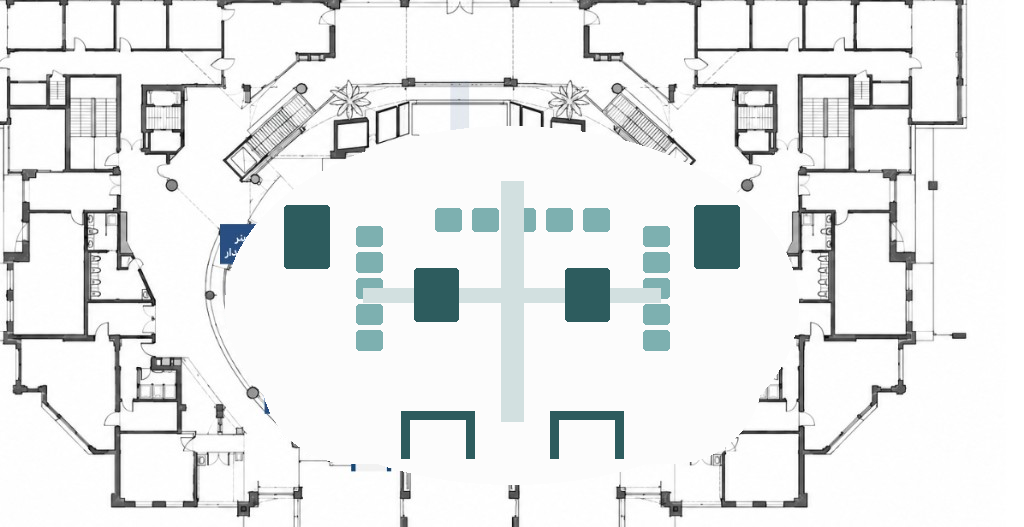
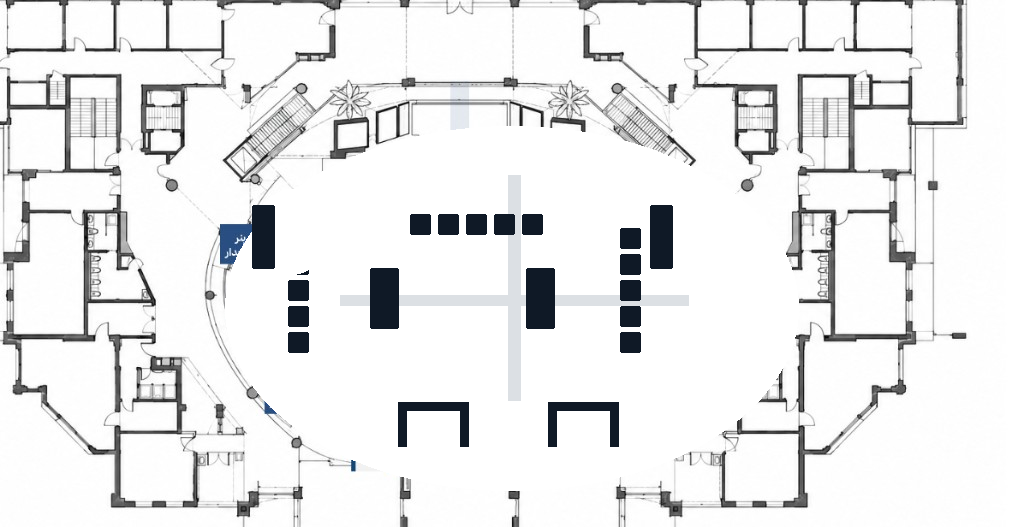
Fix the cover to Terminal navy and rebuild the site plan from the approved layout.

diff --git a/e-week.html b/e-week.html
@@ -7,12 +7,12 @@
   <link rel="stylesheet" href="https://cdn.jsdelivr.net/npm/@dawod/thmanyah-font-web/index.css">
   <style>
     :root {
-      --teal: #2f5c5e;
-      --mint: #c5ddd4;
-      --fog: #f3f4f2;
+      --teal: #0F1926;
+      --mint: #e6e9ee;
+      --fog: #f4f5f7;
       --ink: #2f2f2f;
       --muted: #5a5a5a;
-      --line: #d9e0de;
+      --line: #d5d8dc;
     }
     * { box-sizing: border-box; margin: 0; padding: 0; }
     html, body { height: 100%; background: #111; font-family: "Thmanyah Sans", sans-serif; color: var(--ink); }
@@ -28,15 +28,14 @@
     .slide.on { display: flex; }
     .slide.teal { background: var(--teal); color: #fff; }
     .slide.cover { padding: 0; }
-    .cover-grid { height: 100%; display: grid; grid-template-columns: 1.05fr .95fr; }
-    .cover-copy { padding: 8% 8%; display: flex; flex-direction: column; justify-content: space-between; }
+    .cover-bg { position: absolute; inset: 0; width: 100%; height: 100%; object-fit: cover; }
+    .cover-dim { position: absolute; inset: 0; background: rgba(15,25,38,.82); }
+    .cover-copy { position: relative; z-index: 2; height: 100%; padding: 7% 7.2%; display: flex; flex-direction: column; justify-content: space-between; }
     .cover-copy img { height: 48px; width: auto; }
     .cover-copy h1 { font-size: clamp(32px, 4.2vw, 58px); line-height: 1.15; max-width: 9ch; }
     .cover-copy .sub { font-size: clamp(15px, 1.45vw, 20px); line-height: 1.65; max-width: 28ch; margin-top: 12px; color: var(--mint); }
     .facts { display: flex; flex-direction: column; gap: 10px; font-size: clamp(14px, 1.3vw, 18px); }
     .facts b { display: block; font-size: 12px; color: var(--mint); margin-bottom: 2px; }
-    .cover-pic { min-height: 0; overflow: hidden; }
-    .cover-pic img { width: 100%; height: 100%; object-fit: cover; display: block; }
     .heads { display: flex; flex-direction: column; align-items: flex-start; gap: 8px; margin-bottom: 2.6%; }
     .tag, .ttl { background: var(--teal); color: #fff; font-weight: 700; display: inline-block; line-height: 1.25; }
     .slide.teal .tag { background: var(--mint); color: var(--teal); }
@@ -72,9 +71,9 @@
     .need { flex: 1; display: grid; grid-template-columns: 1fr 1fr; gap: 8px; }
     .need div { background: #fff; padding: 14px 16px; font-weight: 700; color: var(--teal); font-size: clamp(14px, 1.3vw, 18px); }
     .foot { position: absolute; left: 5.4%; right: 5.4%; bottom: 2.6%; display: flex; justify-content: space-between; font-size: 11px; color: #8a8a8a; }
-    .slide.teal .foot { color: rgba(197,221,212,.75); }
+    .slide.teal .foot { color: rgba(230,233,238,.7); }
     .foot .pg { direction: ltr; unicode-bidi: isolate; }
-    .progress { position: absolute; left: 0; right: 0; bottom: 0; height: 4px; background: rgba(47,92,94,.12); z-index: 5; }
+    .progress { position: absolute; left: 0; right: 0; bottom: 0; height: 4px; background: rgba(15,25,38,.12); z-index: 5; }
     .progress i { display: block; height: 100%; width: 0; background: var(--teal); }
     .stage:has(.slide.teal.on) .progress { background: rgba(255,255,255,.14); }
     .stage:has(.slide.teal.on) .progress i { background: var(--mint); }
@@ -92,20 +91,19 @@
     <div class="stage" id="stage">
 
       <section class="slide cover teal on">
-        <div class="cover-grid">
-          <div class="cover-copy">
-            <img src="assets/brand/logo-mark-white.png" alt="">
-            <div>
-              <h1>أسبوع الريادة 2026</h1>
-              <p class="sub">فعالية ريادية لعرض المشاريع والعلامات التجارية الطلابية.</p>
-            </div>
-            <div class="facts">
-              <div><b>التاريخ</b>12–13 أكتوبر 2026</div>
-              <div><b>الموقع</b>مبنى الطالبات – جامعة الأمير سلطان</div>
-              <div><b>الوقت</b>9:00 صباحًا – 3:00 مساءً</div>
-            </div>
+        <img class="cover-bg" src="assets/proposal/atrium-2.jpg" alt="">
+        <div class="cover-dim"></div>
+        <div class="cover-copy">
+          <img src="assets/brand/logo-mark-white.png" alt="">
+          <div>
+            <h1>أسبوع الريادة 2026</h1>
+            <p class="sub">فعالية ريادية لعرض المشاريع والعلامات التجارية الطلابية.</p>
           </div>
-          <div class="cover-pic"><img src="assets/proposal/booth-ref.png" alt=""></div>
+          <div class="facts">
+            <div><b>التاريخ</b>12–13 أكتوبر 2026</div>
+            <div><b>الموقع</b>مبنى الطالبات – جامعة الأمير سلطان</div>
+            <div><b>الوقت</b>9:00 صباحًا – 3:00 مساءً</div>
+          </div>
         </div>
         <div class="foot"><span>أسبوع الريادة 2026</span><span class="pg"></span></div>
       </section>
@@ -176,11 +174,11 @@
         <div class="split split-21">
           <div class="pic contain"><img src="assets/proposal/plan-clean.png" alt="المخطط"></div>
           <div class="legend">
-            <div><i style="background:#7db0b0"></i>15 بوث</div>
-            <div><i style="background:#2f5c5e"></i>بوابة دخول + بوابة خروج</div>
-            <div><i style="background:#2f5c5e"></i>2 بنر جداري</div>
-            <div><i style="background:#d2e0e0"></i>2 قماش معلق من الأعلى</div>
-            <div><i style="background:#2f5c5e"></i>2 بنر معلق من الأعلى</div>
+            <div><i style="background:#0F1926"></i>15 بوث</div>
+            <div><i style="background:#0F1926"></i>بوابة دخول + بوابة خروج</div>
+            <div><i style="background:#0F1926"></i>2 بنر جداري</div>
+            <div><i style="background:#dce0e4"></i>2 قماش معلق من الأعلى</div>
+            <div><i style="background:#0F1926"></i>2 بنر معلق من الأعلى</div>
           </div>
         </div>
         <div class="foot"><span>أسبوع الريادة 2026</span><span class="pg"></span></div>
